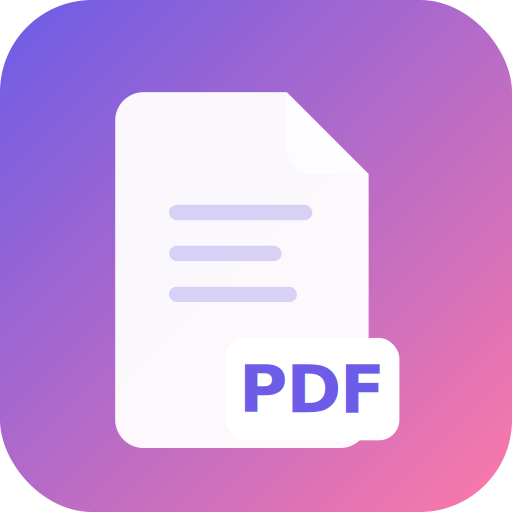
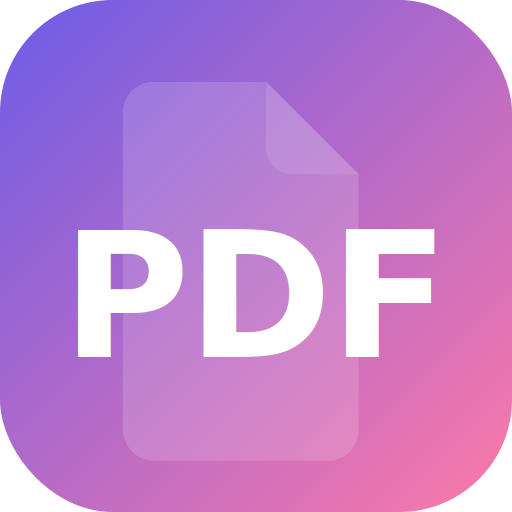
fixes for iOS PWA
fixes for iOS PWA

diff --git a/index.html b/index.html
@@ -7,12 +7,14 @@
     <meta name="description" content="Merge, sort, crop, remove pages, watermark, annotate & draw on PDFs — all client-side, no uploads.">
     <link rel="canonical" href="https://pdf.genius-space.org">
     <link rel="icon" type="image/svg+xml" href="favicon.svg">
+    <link rel="icon" type="image/png" sizes="192x192" href="icon-192.png">
     <link rel="manifest" href="manifest.json">
     <meta name="theme-color" content="#6c5ce7">
     <meta name="mobile-web-app-capable" content="yes">
     <meta name="apple-mobile-web-app-status-bar-style" content="black-translucent">
     <meta name="apple-mobile-web-app-title" content="PDF Genius">
     <meta name="apple-mobile-web-app-capable" content="yes">
+    <link rel="apple-touch-icon" href="apple-touch-icon.png">
     <link rel="apple-touch-icon" sizes="180x180" href="apple-touch-icon.png">
     <link rel="apple-touch-icon" sizes="192x192" href="icon-192.png">
     <link rel="preconnect" href="https://fonts.googleapis.com">